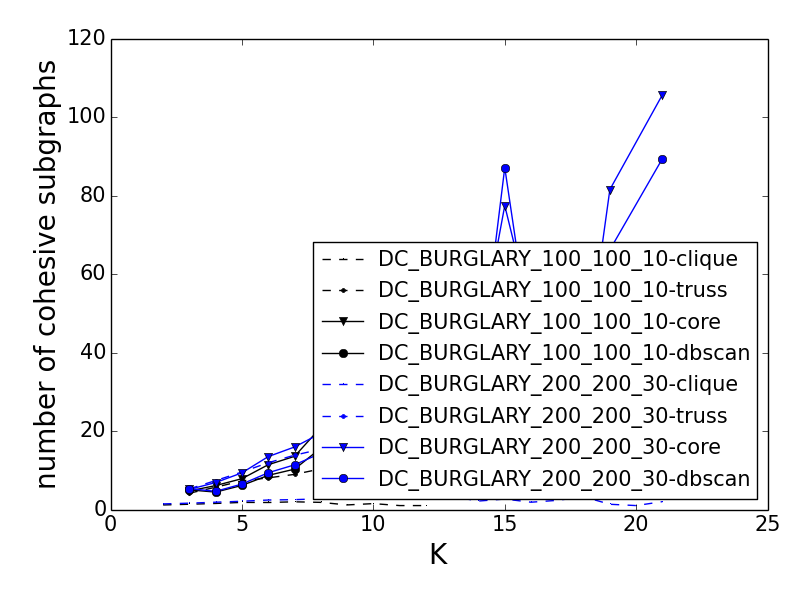
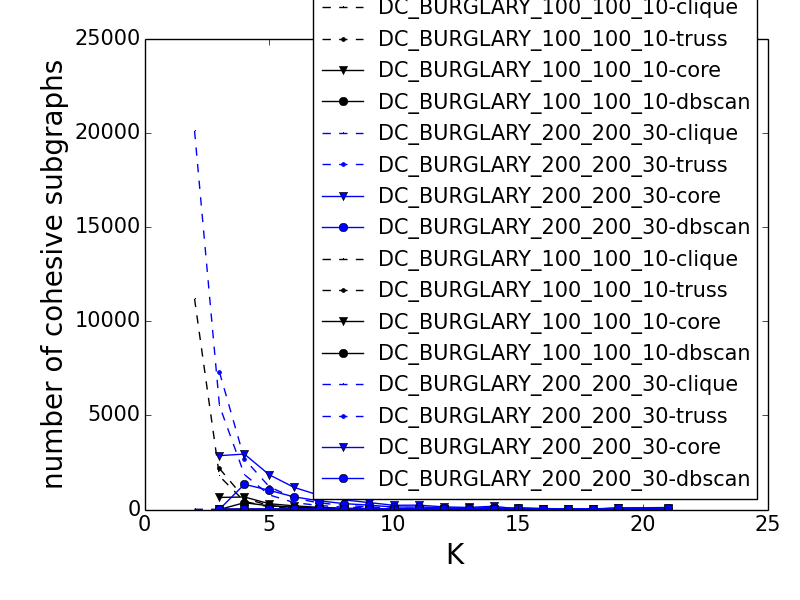
fix one bug

diff --git a/scripts/data_analysis.py b/scripts/data_analysis.py
@@ -137,17 +137,16 @@ class JsonStatsCollections:
         colors = ['k', 'b', 'r', 'g']
         i = 0
         for c in self.coll: 
-            if is_freq:
+            if is_freq == False:
                 plt.plot(self.coll[c].cliqueSize['x'], self.coll[c].cliqueSize['y'], color=colors[i], linestyle='--', marker=',', label = self.coll[c].name+'-clique')
                 plt.plot(self.coll[c].trussSize['x'],  self.coll[c].trussSize['y'],  color=colors[i], linestyle='--', marker='.', label = self.coll[c].name+'-truss')
                 plt.plot(self.coll[c].coreSize['x'],   self.coll[c].coreSize['y'],   color=colors[i], linestyle='-',  marker='v', label = self.coll[c].name+'-core')
                 plt.plot(self.coll[c].dbscanSize['x'], self.coll[c].dbscanSize['y'], color=colors[i], linestyle='-',  marker='o', label = self.coll[c].name+'-dbscan')
             else:
-                continue
-                #plt.plot(self.coll[c].clique['x'], self.coll[c].clique['y'], color=colors[i], linestyle='--', marker=',', label = self.coll[c].name+'-clique')
-                #plt.plot(self.coll[c].truss['x'],  self.coll[c].truss['y'],  color=colors[i], linestyle='--', marker='.', label = self.coll[c].name+'-truss')
-                #plt.plot(self.coll[c].core['x'],   self.coll[c].core['y'],   color=colors[i], linestyle='-',  marker='v', label = self.coll[c].name+'-core')
-                #plt.plot(self.coll[c].dbscan['x'], self.coll[c].dbscan['y'], color=colors[i], linestyle='-',  marker='o', label = self.coll[c].name+'-dbscan')
+                plt.plot(self.coll[c].clique['x'], self.coll[c].clique['y'], color=colors[i], linestyle='--', marker=',', label = self.coll[c].name+'-clique')
+                plt.plot(self.coll[c].truss['x'],  self.coll[c].truss['y'],  color=colors[i], linestyle='--', marker='.', label = self.coll[c].name+'-truss')
+                plt.plot(self.coll[c].core['x'],   self.coll[c].core['y'],   color=colors[i], linestyle='-',  marker='v', label = self.coll[c].name+'-core')
+                plt.plot(self.coll[c].dbscan['x'], self.coll[c].dbscan['y'], color=colors[i], linestyle='-',  marker='o', label = self.coll[c].name+'-dbscan')
             i += 1
         plt.legend( loc='lower right', numpoints = 1, prop={'size':15} )
         plt.tick_params(labelsize=15)
